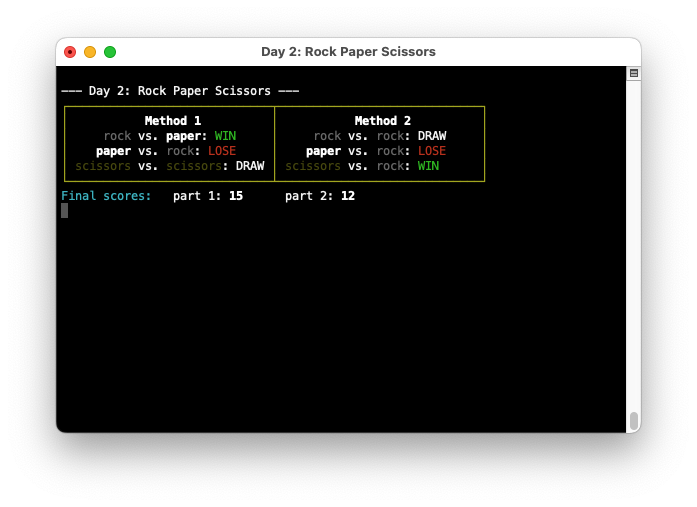
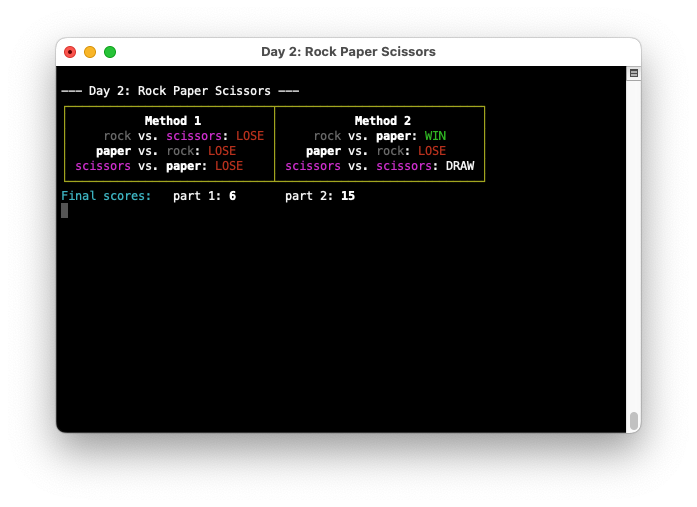
update screenshot 2

diff --git a/2/rock-paper-scissor.py b/2/rock-paper-scissor.py
@@ -8,7 +8,7 @@ GUIDE = {'A': 'rock', 'B': 'paper', 'C': 'scissors', 'X': 'rock', 'Y': 'paper', 
 SCORES = {'rock': 1, 'paper': 2, 'scissors': 3}
 WINNERS = {'rock': 'scissors', 'paper': 'rock', 'scissors': 'paper'}
 LOSERS = {'rock': 'paper', 'paper': 'scissors', 'scissors': 'rock'}
-COLORS = {'rock': Style.DIM, 'paper': Style.BRIGHT, 'scissors': Style.DIM + Fore.YELLOW}
+COLORS = {'rock': Style.DIM, 'paper': Style.BRIGHT, 'scissors': Fore.MAGENTA}
 
 DRAW_BONUS = 3
 WIN_BONUS = 6
